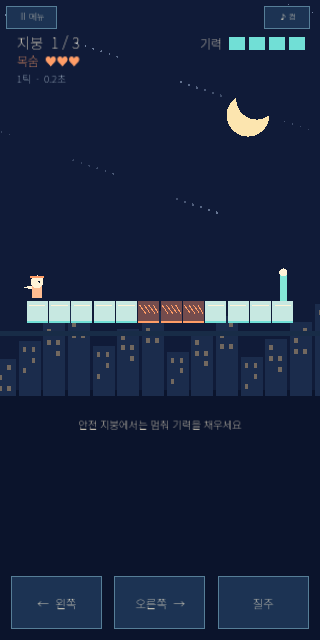
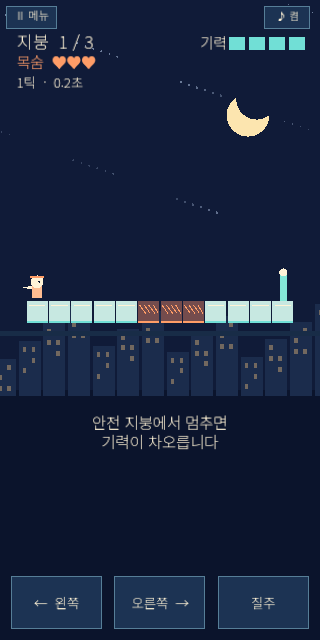
Improve narrow-screen HUD and hint legibility

diff --git a/docs/index.html b/docs/index.html
@@ -109,7 +109,7 @@ body {
 
 		<script src="index.js"></script>
 		<script>
-const GODOT_CONFIG = {"args":[],"canvasResizePolicy":2,"emscriptenPoolSize":8,"ensureCrossOriginIsolationHeaders":true,"executable":"index","experimentalVK":false,"fileSizes":{"index.pck":6749360,"index.wasm":39514754},"focusCanvas":true,"gdextensionLibs":[],"godotPoolSize":4};
+const GODOT_CONFIG = {"args":[],"canvasResizePolicy":2,"emscriptenPoolSize":8,"ensureCrossOriginIsolationHeaders":true,"executable":"index","experimentalVK":false,"fileSizes":{"index.pck":6749744,"index.wasm":39514754},"focusCanvas":true,"gdextensionLibs":[],"godotPoolSize":4};
 const GODOT_THREADS_ENABLED = false;
 const engine = new Engine(GODOT_CONFIG);
 

diff --git a/TESTS.md b/TESTS.md
@@ -8,3 +8,9 @@
 - 로컬 데스크톱 첫 방문에 favicon 404 콘솔 기록 1건; 게임 자산과 실행에는 영향 없고 320px 재실행 시 오류 0건. 외부 실제 기기·Safari/Firefox는 미검증.
 - 공개 Pages URL에서 `BASE_URL=https://boss489.github.io/roof-breath-run-20261123/ node tests/browser.cjs` 재실행: 960/320 캔버스가 열리고 콘솔 오류 0건. `evidence/public/`의 실제 공개 사이트 화면에서 제목·튜토리얼·플레이·실패·3단계 휴식·성공(47틱 최고 기록), 320px 단일 버튼과 동시 멀티터치 질주를 시각 확인. 성공 직후 동일 브라우저 페이지를 새로고침한 `960-reloaded-record.png`에 최고 기록 47틱 유지 확인.
 - 헤드리스 게임 로직은 저장이 불가능한 모드에서도 기록을 메모리에 유지하는 분기를 테스트한다. 공개 사이트 Chrome의 같은 브라우저 프로필에서 새로고침 후 최고 기록 47틱을 확인했다. 다른 기기·브라우저 간 기록 동기화는 제공하지 않는다.
+
+## 320px 가독성 보정 재검증 (2026-11-23 KST)
+
+- `godot --headless --editor --path . --quit` 성공; `godot --headless --path . --script res://tests/logic.gd` → **PASS 16 checks; replay 43 ticks; best 43**; `python3 tests/check_glyphs.py` → 누락 글리프 `[]`; Web export 성공.
+- `node tests/browser.cjs` 로컬 Chrome 960×640/320×640: 제목→튜토리얼→플레이→실패→재도전→성공 스크린샷 재생성, 320에서 단일 홀드 및 방향+질주 멀티터치도 유지. 320 성공/실패 추가 캡처(`evidence/320-success.png`, `320-failure.png`). 960 첫 접속 favicon 404만 관찰, 320 콘솔 오류 없음.
+- `evidence/320-play.png` 실사 확인: HUD·메뉴·음소거·하단 버튼의 좁은 화면 글자를 확대하고 좁은 화면 글꼴을 살짝 두껍게 렌더; 안전 지붕 도움말은 밝은 2줄로 변경. 세 터치 버튼은 여전히 각 약 90×52 CSS px, 서로 겹치지 않고 도움말과 분리됨. 데스크톱 글꼴/레이아웃은 그대로. 실제 휴대폰 및 다른 엔진은 미검증.

diff --git a/PROGRESS.md b/PROGRESS.md
@@ -7,3 +7,5 @@
 배포 완료: 새 공개 저장소 `https://github.com/boss489/roof-breath-run-20261123`의 main/docs Pages 소스. 게임 바이너리 최초 배포 커밋 `1e61f537f0eea6aa6ae1be24077c71a31ad6999d`; Pages 빌드 `built` (2026-11-22T20:34:14Z = 2026-11-23 05:34:14 KST). 공개 URL `https://boss489.github.io/roof-breath-run-20261123/`. HTML/JS/PCK/WASM HTTP 206 Range 응답 및 Chrome에서 실제 공개 게임의 데스크톱·320px 플레이/성공 확인; `evidence/public/`. 최종 문서·증거 업데이트 후 원격 main SHA는 별도로 검증한다.
 
 한계: 실제 휴대폰/Safari/Firefox 미확인; 로컬 첫 접속 favicon 404(공개 사이트 재검증에서는 콘솔 오류 없음). 공개 사이트의 동일 Chrome 브라우저에서 새로고침 시 최고 기록 47틱 보존 확인; 다른 기기 간 동기화는 제공하지 않는다.
+
+2026-11-23 KST 접근성 보정: 320×640에서 HUD·도움말의 글꼴 크기/획/밝기를 높이고 긴 도움말을 두 줄로 나눔. 기존 3개 터치 버튼의 위치·히트 영역과 게임 로직은 불변. Godot import/16개 로직 체크/한글 글리프/Web export와 로컬 Chrome 960·320의 제목→튜토리얼→플레이→실패→성공 및 320 멀티터치를 재검증함(`TESTS.md`). 보정 배포의 최종 SHA·Pages 상태는 원격 재검증 후 인계한다.

diff --git a/DEPLOY.md b/DEPLOY.md
@@ -6,3 +6,8 @@
 - 배포 순서: 추적 파일·비밀/라이선스 검사 → main 커밋 → 새 공개 repo 생성·push → Pages source를 main/docs로 지정 → 빌드 상태 확인 → 공개 HTTP에서 HTML·PCK·WASM 응답과 브라우저 캔버스 확인.
 - 롤백: Pages를 비활성화하거나 `main`을 이전 정상 커밋으로 되돌린 뒤 Pages 빌드가 완료되었는지 확인한다.
 - 실제 배포 결과와 커밋 SHA는 `PROGRESS.md`에 기록한다.
+
+## 320px 보정 갱신
+
+- 기존 `main/docs` Pages만 업데이트한다. 게임 소스 `Main.gd`를 다시 Web export한 `docs/index.pck`와 상태별 Chrome 캡처를 함께 검증한다.
+- 새 커밋 push 후 원격 main SHA와 Pages `builds/latest`의 `commit`·`status=built`를 일치시킨다. 공개 URL의 `index.html`, `index.js`, `index.pck`, `index.wasm`을 캐시 무효화 URL로 내려받아 로컬 `docs/`와 SHA-256을 비교하고 실제 공개 게임을 960/320 Chrome에서 다시 플레이한다. 검증 명령과 결과는 `TESTS.md` 및 최종 인계에 기록한다.
